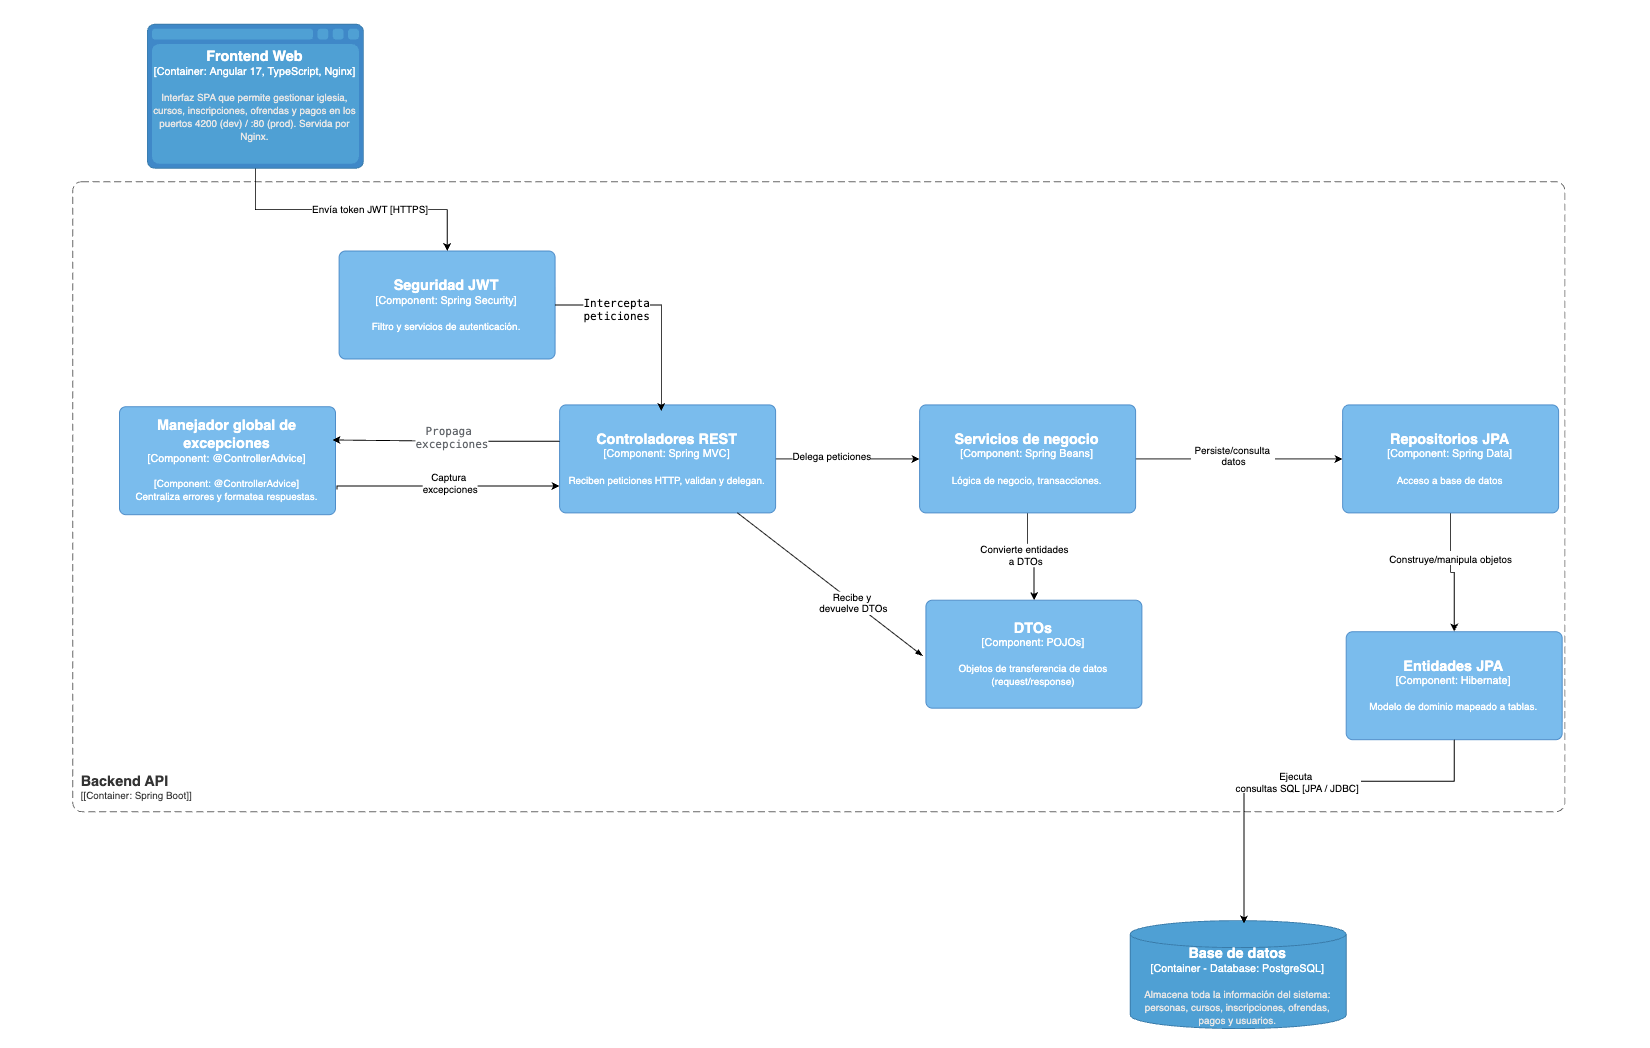
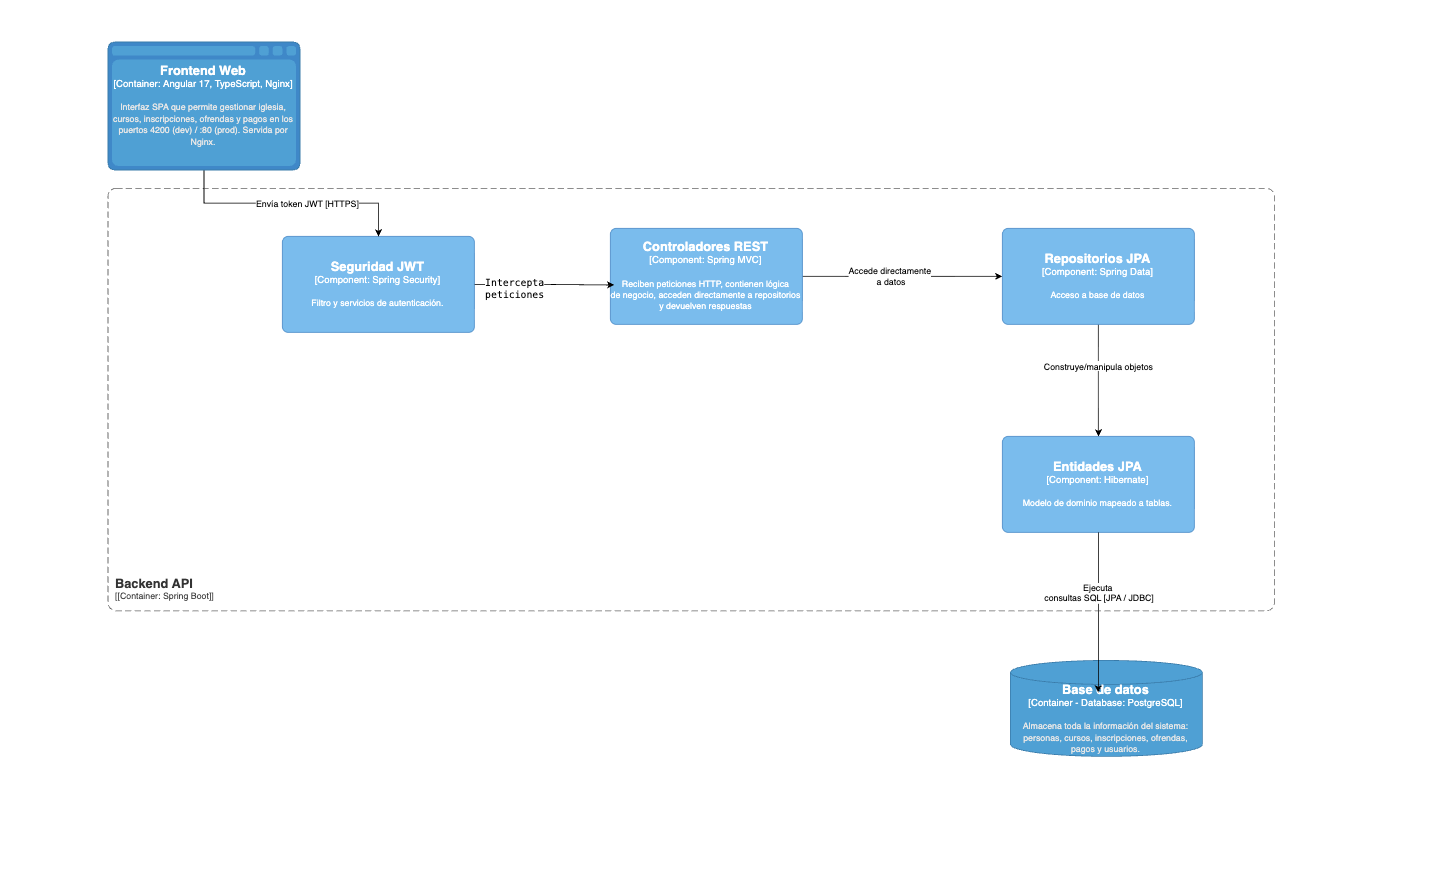
docs: add C4 architecture diagrams - context, containers and components

diff --git a/C4/C4_ERP_Iglesias_Entrega.md b/C4/C4_ERP_Iglesias_Entrega.md
@@ -150,17 +150,17 @@ Este diagrama representa el **Nivel 2 (Contenedores)** del modelo C4. Muestra la
 
 ---
 
-## Nivel 3 — Diagrama de Componentes
+# Nivel 3 — Diagrama de Componentes (Sistema Original)
 
 ### ¿Qué muestra este diagrama?
 
-El Diagrama de Componentes profundiza en el interior del contenedor **API REST (Spring Boot)** — el más relevante arquitectónicamente — mostrando los componentes internos que lo conforman, sus responsabilidades y las relaciones entre ellos. Responde a la pregunta: *¿qué hay dentro del backend?*
+El Diagrama de Componentes profundiza en el interior del contenedor **Backend API (Spring Boot)**, mostrando la estructura interna del sistema en su estado **original**, antes de aplicar las mejoras arquitectónicas documentadas en los ADRs. Responde a la pregunta: *¿qué hay dentro del backend en su versión inicial?*
 
 ### Diagrama
 
 > `C3_Componentes.png`
 
-![Diagrama de Componentes — ERP Iglesias](IMG/C3_Componentes.png)
+![Diagrama de Componentes — ERP Iglesias](./img/C3_Componentes.png)
 
 ---
 
@@ -168,55 +168,50 @@ El Diagrama de Componentes profundiza en el interior del contenedor **API REST (
 
 #### Componentes identificados
 
-Se identificaron siete componentes arquitectónicos, todos evidenciados en el código fuente y mejorados mediante los ADRs implementados:
+Se identificaron cuatro componentes en el sistema original:
 
-**Seguridad JWT** (`JwtAuthFilter`, `JwtService`, `SecurityConfig`) es el componente transversal que intercepta **todas** las peticiones HTTP antes de que lleguen a los controladores. Valida el token JWT, extrae el rol del usuario y establece la autenticación en el contexto de Spring Security.
+**Seguridad JWT** (`JwtAuthFilter`, `JwtService`, `SecurityConfig`) es el componente transversal que intercepta todas las peticiones HTTP antes de que lleguen a los controladores. Valida el token JWT, extrae el rol del usuario y establece la autenticación en el contexto de Spring Security, habilitando la autorización con `@PreAuthorize`.
 
-**Controladores REST** (`AuthController`, `ChurchController`, `CourseController`, `EnrollmentController`, `OfferingController`, `PaymentController`, `PersonController`) reciben las peticiones HTTP, validan los datos de entrada con `@Valid` y delegan la ejecución en los servicios. No contienen lógica de negocio — implementado mediante **ADR-001** (Service Layer + SRP).
+**Controladores REST** (`AuthController`, `ChurchController`, `CourseController`, `EnrollmentController`, `OfferingController`, `PaymentController`, `PersonController`) son el componente central del sistema original. A diferencia de una arquitectura en capas bien definida, en esta versión los controladores concentran **múltiples responsabilidades**: reciben las peticiones HTTP, contienen la lógica de negocio, validan reglas de dominio, acceden directamente a los repositorios y construyen las respuestas. Esto genera un alto acoplamiento y dificulta el mantenimiento y las pruebas unitarias.
 
-**Manejador global de excepciones** (`GlobalExceptionHandler`, `ErrorResponse`) captura todas las excepciones de dominio y las transforma en respuestas JSON estandarizadas. Implementado mediante **ADR-003** (@ControllerAdvice + OCP).
+**Repositorios JPA** (`ChurchRepository`, `CourseRepository`, `EnrollmentRepository`, `OfferingRepository`, `PaymentRepository`, `PersonRepository`, `AppUserRepository`) son la capa de abstracción sobre la base de datos mediante Spring Data JPA. En el sistema original, son accedidos **directamente** desde los controladores, sin pasar por una capa de servicios intermedia.
 
-**Servicios de negocio** (`ChurchService`, `EnrollmentService`, `OfferingService`, `PaymentService`, `UserService`, `AuthService`) encapsulan la lógica de negocio con `@Service` y `@Transactional`. `ChurchService` centraliza la obtención de la iglesia — **ADR-002** (Singleton + DRY). Los demás servicios fueron extraídos de los controladores mediante **ADR-001**.
-
-**DTOs** (`dto/request/`, `dto/response/`) definen la estructura de los datos intercambiados con el frontend. Movidos a paquetes independientes mediante **ADR-005** (DTO Pattern + SRP).
-
-**Repositorios JPA** (`ChurchRepository`, `CourseRepository`, `EnrollmentRepository`, `OfferingRepository`, `PaymentRepository`, `PersonRepository`, `AppUserRepository`) son la capa de abstracción sobre la base de datos mediante Spring Data JPA.
-
-**Entidades JPA** (`Church`, `Course`, `Enrollment`, `Offering`, `Payment`, `Person`, `AppUser`) modelan las tablas de la base de datos y sus relaciones mediante anotaciones Hibernate.
+**Entidades JPA** (`Church`, `Course`, `Enrollment`, `Offering`, `Payment`, `Person`, `AppUser`) modelan las tablas de la base de datos y sus relaciones mediante anotaciones Hibernate. Son construidas y manipuladas directamente por los repositorios.
 
 #### ¿Por qué elegimos estos elementos?
 
-Se eligieron estos componentes porque representan **unidades con responsabilidad clara** dentro del backend, no archivos aislados. Se eligió el **backend como contenedor a profundizar** porque es donde se concentra la mayor complejidad arquitectónica y donde se aplicaron los 5 cambios de los ADRs implementados.
+Se eligieron estos componentes porque representan las **unidades funcionales reales** del backend original. Se omitieron servicios, DTOs independientes y manejador de excepciones porque **no existían** en el sistema original — estos fueron introducidos posteriormente mediante los ADRs implementados.
+
+Se eligió el **backend como contenedor a profundizar** porque es donde se concentra la mayor complejidad arquitectónica del sistema y donde se identificaron los principales problemas de diseño.
 
 #### ¿Cómo se relacionan entre sí?
 
-El flujo de una petición típica dentro del backend es:
+El flujo de una petición en el sistema original es:
 
-1. El **Frontend Web** envía una petición con token JWT
-2. **Seguridad JWT** intercepta, valida el token y autoriza el acceso
-3. Los **Controladores REST** reciben la petición, validan con **DTOs** y delegan en **Servicios**
-4. Si hay error, el **Manejador global** lo captura y retorna `ErrorResponse`
-5. Los **Servicios** aplican lógica, convierten entidades en **DTOs** y usan **Repositorios**
-6. Los **Repositorios** operan sobre **Entidades JPA** y ejecutan SQL en **PostgreSQL**
+1. El **Frontend Web** envía una petición con token JWT al backend
+2. **Seguridad JWT** intercepta la petición, valida el token y autoriza el acceso
+3. Los **Controladores REST** reciben la petición, aplican la lógica de negocio internamente y acceden **directamente** a los **Repositorios JPA**
+4. Los **Repositorios JPA** construyen y manipulan **Entidades JPA**
+5. Las **Entidades JPA** ejecutan operaciones SQL sobre la **Base de datos PostgreSQL**
 
-Las dependencias fluyen en **una sola dirección**: `Controllers → Services → Repositories`, sin dependencias inversas.
+A diferencia de una arquitectura bien estructurada, las dependencias no fluyen en una dirección única — los controladores conocen tanto la lógica de negocio como la capa de datos, generando alto acoplamiento.
 
 #### ¿Qué nivel C4 representa?
 
-Este diagrama representa el **Nivel 3 (Componentes)** del modelo C4. Muestra la estructura interna de un contenedor específico con el nivel de detalle suficiente para entender cómo está organizado el código.
+Este diagrama representa el **Nivel 3 (Componentes)** del modelo C4. Muestra la estructura interna del contenedor Backend en su estado original, evidenciando los problemas arquitectónicos que motivaron las mejoras documentadas en los ADRs.
 
 #### Decisiones y supuestos tomados
 
-- Se decidió **agrupar los controladores en un solo componente** para mantener el diagrama legible. Lo mismo aplica para servicios y repositorios.
-- Se incluyeron los **DTOs como componente** porque representan una decisión arquitectónica explícita documentada en **ADR-005**.
-- Se incluyó la **Seguridad JWT como componente transversal** porque intercepta el flujo antes de los controladores.
-- Se asumió que las **Entidades JPA** merecen representación propia porque modelan el dominio y son el puente entre la lógica de negocio y la base de datos.
-
----
+- Se decidió **no incluir servicios** porque en el sistema original no existía una capa de servicios — la lógica de negocio vivía directamente en los controladores, como se evidencia en los archivos `EnrollmentController.java`, `OfferingController.java` y `PaymentController.java` del repositorio original.
+- Se decidió **no incluir DTOs independientes** porque en el sistema original los records de transferencia de datos estaban definidos como clases internas de los controladores.
+- Se decidió **no incluir GlobalExceptionHandler** porque no existía en el sistema original — cada controlador manejaba sus errores de forma individual con `ResponseStatusException`.
+- Se identificó como **problema arquitectónico principal** que los controladores violaban el Principio de Responsabilidad Única (SRP) al concentrar múltiples responsabilidades, lo cual motivó las mejoras implementadas en los ADRs.
 
 ## Conclusión
 
-La arquitectura de ERP Iglesias sigue un patrón de **tres capas** (presentación, lógica, datos) con separación clara de responsabilidades en cada nivel del modelo C4.
+La arquitectura de ERP Iglesias sigue un patrón de **tres capas** 
+(presentación, lógica, datos), analizado a través de los tres 
+niveles del modelo C4.
 
 Los tres niveles mantienen coherencia entre sí:
 
@@ -224,11 +219,25 @@ Los tres niveles mantienen coherencia entre sí:
 |----------|---------|-----------------|
 | Contexto (N1) | ERP Iglesias | ↓ |
 | Contenedores (N2) | Frontend + API REST + PostgreSQL | ↓ |
-| Componentes (N3) | Controllers + Services + Repositories + Security + DTOs + Entities + ExceptionHandler | — |
+| Componentes (N3) | Controllers + Repositories + Security + Entities | — |
 
-Las decisiones arquitectónicas documentadas en los ADRs implementados — **Service Layer (ADR-001)**, **ChurchService Singleton (ADR-002)**, **GlobalExceptionHandler (ADR-003)**, **DTOs separados (ADR-005)** y **Angular Services (ADR-007)** — mejoran directamente la mantenibilidad, escalabilidad y testeabilidad del sistema, aplicando principios **SOLID** y patrones de diseño reconocidos en la industria.
+El análisis del sistema original evidenció los siguientes 
+problemas arquitectónicos:
 
-El sistema resultante tiene componentes con responsabilidades claras, dependencias unidireccionales y un flujo de datos predecible, lo que facilita tanto su comprensión como su evolución futura.
+- Los **Controladores REST** concentraban múltiples 
+responsabilidades, violando el Principio de Responsabilidad 
+Única (SRP)
+- No existía una **capa de servicios** — la lógica de negocio 
+vivía directamente en los controllers
+- Los **DTOs** estaban acoplados como clases internas de los 
+controllers
+- No había un **manejador global de excepciones** — cada 
+controller manejaba errores de forma inconsistente
+
+Estos hallazgos motivaron las mejoras arquitectónicas 
+documentadas en los ADRs del proyecto, aplicando principios 
+**SOLID** y patrones de diseño reconocidos en la industria, 
+logrando un sistema más mantenible, escalable y testeable.
 
 ---
 
